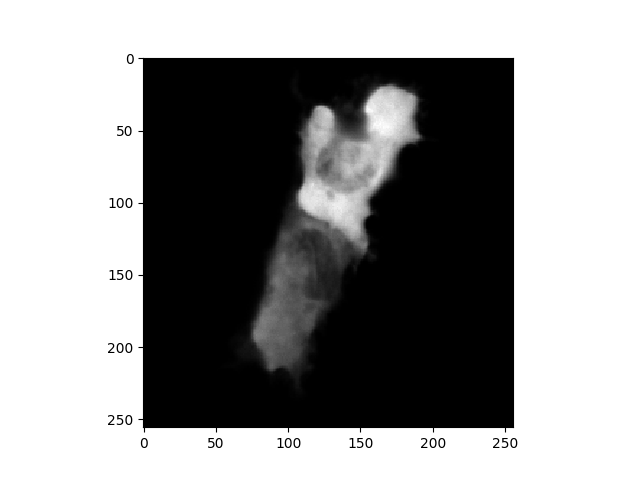
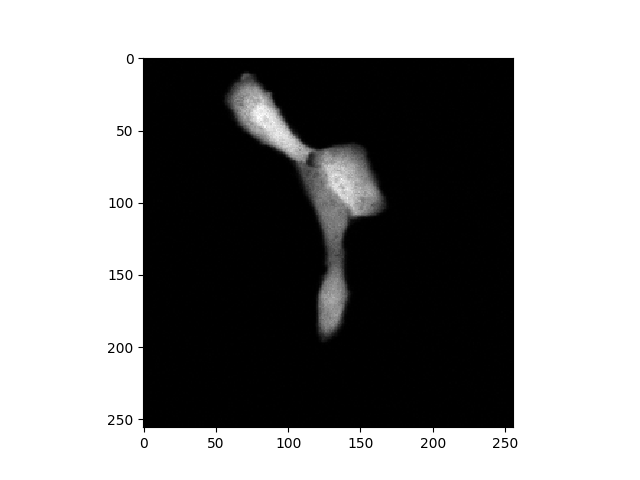
Backup commit from the train. Jus t moved some function for image visualization in a dedicated script.

Changed region(s): [[0.3438, 0.1562, 0.6562, 0.7812]]

diff --git a/qt_app/pythonbackend/main.py b/qt_app/pythonbackend/main.py
@@ -20,6 +20,8 @@ import globalFitting as glFit
 import visualizationFunctions as vis
 
 class Ui_mainWindow(object):
+
+    # UI Setup, automatically translated into python by cmd line tool from PyQt Designer
     def setupUi(self, mainWindow):
         mainWindow.setObjectName("mainWindow")
         mainWindow.resize(800, 600)
@@ -70,6 +72,7 @@ class Ui_mainWindow(object):
         self.retranslateUi(mainWindow)
         QtCore.QMetaObject.connectSlotsByName(mainWindow)
 
+
     def retranslateUi(self, mainWindow):
         _translate = QtCore.QCoreApplication.translate
         mainWindow.setWindowTitle(_translate("mainWindow", "MainWindow"))
@@ -79,6 +82,8 @@ class Ui_mainWindow(object):
         self.label_temporalBinning.setText(_translate("mainWindow", "Temporal Binning"))
         self.menuFile.setTitle(_translate("mainWindow", "File"))
         self.actionQuit.setText(_translate("mainWindow", "Quit"))
+
+
 
 
 # App Logic
@@ -101,25 +106,19 @@ def cliMain():
                                                FLIMInfo['PixelsY'],
                                                FLIMInfo['GlobalResolution'],
                                                FLIMInfo['Resolution'],
-                                               1,
-                                               4)
-    recordarray = None
-    plt.imshow(intimage, cmap="gray")
-    plt.savefig("imgOutput/out.png")
-    plt.show()
+                                               2,
+                                               5)
+    recordarray = None # Dereferencing recordarray to save RAM space
 
-    lifetime = glFit.globalTailFit(flimarray, FLIMInfo, showPlot = False)
+    vis.showIntensityImage(intimage, saveImage = False)
+
+    globalLifetime = glFit.globalTailFit(flimarray, FLIMInfo, showPlot = True)
     lifetimeImage = glFit.pixelwiseSimpleDecay(flimarray, 100, 10,FLIMInfo['GlobalResolution'])
 
-    plt.imshow(lifetimeImage, cmap = "cubehelix")
-    plt.text(10, 10, lifetime)
-    plt.clim(1, 5)
-    plt.colorbar()
-    plt.show()
-
+    vis.showLifetimeImage(lifetimeImage, globalLifetime)
 
     print("******************************")
-    print("\nOverall fluorescence lifetime:", lifetime, "ns.")
+    print("\nOverall fluorescence lifetime:", globalLifetime, "ns.")
     print("******************************")
     print("\nTerminating script...\n")
 

diff --git a/qt_app/pythonbackend/globalFitting.py b/qt_app/pythonbackend/globalFitting.py
@@ -1,6 +1,7 @@
 import numpy as np
 import matplotlib.pyplot as plt
 from scipy.optimize import curve_fit
+import scipy.optimize as optimize
 from numba import jit, prange
 
 
@@ -53,6 +54,33 @@ def globalTailFit(flimarray, FLIMInfo, showPlot = True):
     plt.plot(xaxis, overallDecay, 'b.')
     tau_fit, tau_cov = curve_fit(
         expDecay, xaxis[maxVal:endOfData-20], overallDecay[maxVal:endOfData-20], p0=(max(overallDecay), 0, 5))
+
+    lifetime = round(tau_fit[2], 4)
+
+    if(showPlot == True):
+        plt.text(1/2*max(xaxis), max(overallDecay)/2, "Fitted Lifetime: %f ns" % lifetime)
+        plt.plot(xaxis[maxVal:endOfData-20],
+             expDecay(xaxis, *tau_fit)[maxVal:endOfData-20], 'r-')
+
+        plt.show()
+
+    return(lifetime)
+
+
+#@jit(nopython = True)
+def globalTailFit_wOptimize(flimarray, FLIMInfo, showPlot = True):
+      # There's definitely a smarter way to do this.
+    overallDecay = np.sum(np.sum(flimarray, axis=0), axis=0)
+    xaxis = np.linspace(
+        0, round(FLIMInfo['GlobalResolution']*10E8), flimarray.shape[2])
+    maxVal = np.where(overallDecay == max(overallDecay))[0][0]
+    endOfData = overallDecay.size - 1
+    plt.plot(xaxis, overallDecay, 'b.')
+    
+    #tau_fit, tau_cov = curve_fit(
+    #    expDecay, xaxis[maxVal:endOfData-20], overallDecay[maxVal:endOfData-20], p0=(max(overallDecay), 0, 5))
+
+    tau_fit
 
     lifetime = round(tau_fit[2], 4)
 

diff --git a/qt_app/pythonbackend/visualizationFunctions.py b/qt_app/pythonbackend/visualizationFunctions.py
@@ -1,0 +1,33 @@
+'''
+ Collection of functions for FLIM data visualization
+'''
+
+def showIntensityImage(intensityImageArray, saveImage = False):
+
+    import matplotlib.pyplot as plt
+
+    plt.imshow(intensityImageArray, cmap='gray')
+
+    if(saveImage == True):
+        plt.savefig('imgOutput/out.png')
+
+    plt.show()
+
+    return(0)
+
+
+def showLifetimeImage(lifetimeArray, globalLifetime, lowerLimit = 0, upperLimit = 5, saveImage = False):
+
+    import matplotlib.pyplot as plt
+
+    plt.imshow(lifetimeArray, cmap = 'viridis')
+    plt.text(10, 10, globalLifetime)
+    plt.clim(lowerLimit, upperLimit)
+    plt.colorbar()
+    plt.show()
+
+    if(saveImage == True):
+        plt.savefig('imgOutput/out.png')
+
+
+    return(0)

diff --git a/qt_app/pythonbackend/PTUReader.py b/qt_app/pythonbackend/PTUReader.py
@@ -182,6 +182,7 @@ def PTUReader(path):
     # - TTResult_NumberOfRecords: How many 32 bit records in file?
     FLIMInfo = {
         'Filename': header_contents['$Filename'],
+        'Comment': header_contents['$Comment'],
         'RecordType': header_contents['TTResultFormat_TTTRRecType'],
         'BitsPerRecord': header_contents['TTResultFormat_BitsPerRecord'],
         'PixelResolution': header_contents['$ReqHdr_SpatialResolution'],
